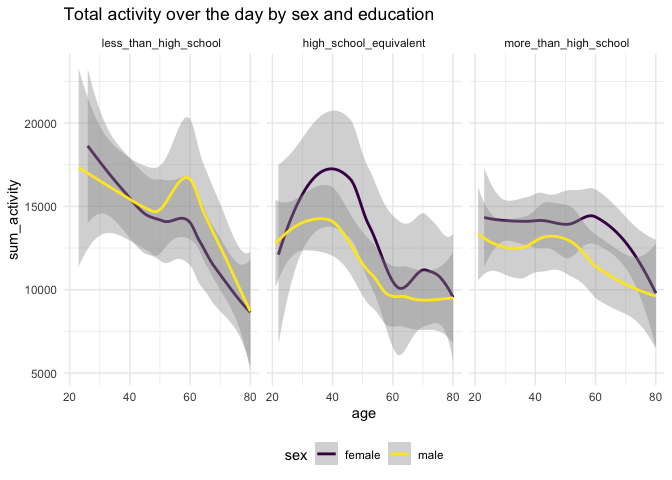
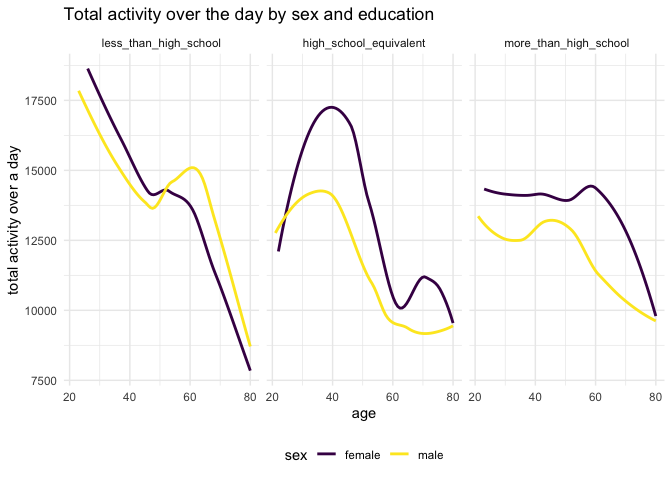
some modification

diff --git a/p8105_hw3_sp4170.md b/p8105_hw3_sp4170.md
@@ -28,7 +28,8 @@ brfss_smart2010 |>
     response == 'Excellent' | response == 'Very good' | response =='Good' | response == 'Fair' | response == 'Poor') |> 
   mutate(
     response = fct_relevel(response, c('Poor', 'Fair', 'Good', 'Very good', 'Excellent'))
-  )
+  ) |> 
+  rename(state = locationabbr, state_location = locationdesc)
 ```
 
 i named the cleaned dataset as ‘brfss_df’.
@@ -44,8 +45,8 @@ in 2010?
 brfss_2002_df =
 brfss_df |> 
   filter(year == 2002) |> 
-  group_by(locationabbr) |> 
-  summarise(n_locations = n_distinct(locationdesc)) |> 
+  group_by(state) |> 
+  summarise(n_locations = n_distinct(state_location)) |> 
   filter(n_locations >= 7)
 ```
 
@@ -56,8 +57,8 @@ brfss_df |>
 brfss_2010_df =
 brfss_df |> 
   filter(year == 2010) |> 
-  group_by(locationabbr) |> 
-  summarise(n_locations = n_distinct(locationdesc)) |> 
+  group_by(state) |> 
+  summarise(n_locations = n_distinct(state_location)) |> 
   filter(n_locations >= 7)
 ```
 
@@ -79,28 +80,29 @@ requirement:
 brfss_excellent_df =
 brfss_df |> 
   filter(response == 'Excellent') |> 
-  group_by(locationabbr) |> 
+  group_by(state, year) |> 
   mutate(
     mean_data_value = mean(data_value, na.rm = TRUE)
   ) |> 
-  select(year, locationabbr, mean_data_value) |> 
-  distinct()
+  select(year, state, mean_data_value) |> 
+  distinct(state, .keep_all = TRUE)
 
 brfss_excellent_df |> 
   ggplot(aes(x = year, y = mean_data_value)) +
-  geom_line(aes(group = locationabbr, color = locationabbr)) +
+  geom_line(aes(group = state, color = state)) +
   labs(
     title = "Average data value over time within states"
-  )
+  ) +
+  theme(legend.position = "right")
 ```
 
 ![](p8105_hw3_sp4170_files/figure-gfm/unnamed-chunk-5-1.png)<!-- -->
 
 - here, i first create a dataset `brfss_excellent_df` following the
   requirement. This new dataset only have 3 variables, which are year,
-  locationabbr, and mean_data_value and is limited to Excellent
-  responses. Then i do a spaghetti plot using geom_line() to show
-  average data value over time within states.
+  state, and mean_data_value and is limited to Excellent responses. Then
+  i do a spaghetti plot using geom_line() to show average data value
+  over time within states.
 
 ### Question 3
 
@@ -111,9 +113,9 @@ locations in NY State.
 ``` r
 brfss_df |> 
   filter(
-    locationabbr == 'NY',
+    state == 'NY',
     year == 2006 | year == 2010) |> 
-  group_by(locationdesc) |> 
+  group_by(state_location) |> 
   ggplot(aes(x = data_value, fill = response)) +
   geom_density(alpha = 0.3) +
   facet_grid(. ~ year)+
@@ -139,12 +141,16 @@ the ordering of tables and plots in mind).
 
 ``` r
 accel_df = 
-  read_csv("data/nhanes_accel.csv") |> 
+  read_csv("data/nhanes_accel.csv", na = '.') |> 
   janitor::clean_names() |> 
   pivot_longer(
     min1:min1440,
     names_to = 'time',
-    values_to = 'mims'
+    values_to = 'mims',
+    names_prefix = 'min'
+  ) |> 
+  mutate(
+    time = as.factor(time)
   )
 ```
 
@@ -158,14 +164,15 @@ accel_df =
 
 ``` r
 covar_df =
-  read_csv("data/nhanes_covar.csv", skip = 4) |> 
+  read_csv("data/nhanes_covar.csv", skip = 4, na = '.') |> 
   janitor::clean_names()
 ```
 
     ## Rows: 250 Columns: 5
     ## ── Column specification ────────────────────────────────────────────────────────
     ## Delimiter: ","
-    ## dbl (5): SEQN, sex, age, BMI, education
+    ## chr (2): BMI, education
+    ## dbl (3): SEQN, sex, age
     ## 
     ## ℹ Use `spec()` to retrieve the full column specification for this data.
     ## ℹ Specify the column types or set `show_col_types = FALSE` to quiet this message.
@@ -176,7 +183,7 @@ final_df =
   drop_na(sex, age, bmi, education) |> 
   filter(age >= 21) |> 
   mutate(
-    education = case_match(education, 1 ~ 'less_than_high_school', 2 ~ 'high_school_equivalent', 3 ~ 'more_than_high_school'),
+    education = ifelse(education == 1, 'less_than_high_school', ifelse(education == 2, 'high_school_equivalent', 'more_than_high_school')),
     sex = case_match(sex, 1 ~ 'male', 2 ~ 'female'),
     education = fct_relevel(education, c('less_than_high_school', 'high_school_equivalent', 'more_than_high_school'))
   )
@@ -193,32 +200,36 @@ final_df =
 
 ``` r
 final_df |> 
-  select(sex, education, age) |> 
+  select(seqn, sex, education, age) |> 
+  distinct(seqn, .keep_all = TRUE) |> 
   group_by(sex, education) |> 
   summarise(n_obs = n()) |>
-  knitr::kable()
+  pivot_wider(
+    names_from = 'sex',
+    values_from = 'n_obs'
+  )
 ```
 
     ## `summarise()` has grouped output by 'sex'. You can override using the `.groups`
     ## argument.
 
-| sex    | education              | n_obs |
-|:-------|:-----------------------|------:|
-| female | less_than_high_school  | 40320 |
-| female | high_school_equivalent | 33120 |
-| female | more_than_high_school  | 84960 |
-| male   | less_than_high_school  | 38880 |
-| male   | high_school_equivalent | 50400 |
-| male   | more_than_high_school  | 80640 |
+    ## # A tibble: 3 × 3
+    ##   education              female  male
+    ##   <fct>                   <int> <int>
+    ## 1 less_than_high_school      29    28
+    ## 2 high_school_equivalent     23    36
+    ## 3 more_than_high_school      59    56
 
 ``` r
 final_df |> 
-  select(sex, education, age) |> 
+  select(seqn, sex, education, age) |> 
+  distinct(seqn, .keep_all = TRUE) |> 
   ggplot(aes(x = age, color = sex))+
   geom_histogram(binwidth = 5, alpha = 0.3) +
   facet_grid(. ~ education) +
   labs(
-    title = 'Age distributions by sex and education category'
+    title = 'Age distributions by sex and education category',
+    y = 'Frequency'
   )
 ```
 
@@ -228,7 +239,7 @@ final_df |>
   - here, i group the dataset by sex and education category using
     `group_by()` and then use `summarise()` to count how many
     observations in each single group (name this variable as n_obs).
-    Then i use `knitr::kable()` to produce a reader-friendly table.
+    Then i use `pivot_wider()` to produce a reader-friendly table.
   - *comments*:
     - In both sex groups, most participants are educated more than high
       school, while more females get education more than high school
@@ -269,12 +280,13 @@ final_df |>
   group_by(seqn) |> 
   mutate(sum_activity = sum(mims)) |> 
   select(seqn, sex, age, education, sum_activity) |> 
-  distinct() |> 
+  distinct(seqn, .keep_all = TRUE) |> 
   ggplot(aes(x = age, y = sum_activity, color = sex)) +
-  geom_smooth() +
+  geom_smooth(se = FALSE) +
   facet_grid(. ~ education) +
   labs(
-    title = 'Total activity over the day by sex and education'
+    title = 'Total activity over the day by sex and education',
+    y = 'total activity over a day'
   )
 ```
 
@@ -285,14 +297,54 @@ final_df |>
 I include a smooth in my plot.
 
 - *comments*:
-  - for each education group, the sum_activity would decrease when ages
-    increase for both genders.
+  - for each education group, the sum_activity would approximately
+    decrease when ages increase for both genders. but for high school
+    equivalent group, sum_activity would first increased apparently
+    until age arrived around 40 yrs, then it will go down. For more than
+    high school group, sum_activity will fluctuate until age arrived
+    around 55 yrs and then it will go down.
   - for education group that is high school equivalent and more than
     high school, in most age, the sum_activity for females surpass
     males.
   - for education group that is less than high school, before around 40
     years old, females have sum_activity greater than males. after
     around 40 years old, the situation reverses.
-  - based on the plots, the group of less than high school education and
-    the group of high school equivalent education have wider variations
-    than the group of more than high school education.
+
+### Question 3
+
+Accelerometer data allows the inspection activity over the course of the
+day. Make a three-panel plot that shows the 24-hour activity time
+courses for each education level and use color to indicate sex. Describe
+in words any patterns or conclusions you can make based on this graph;
+including smooth trends may help identify differences.
+
+``` r
+final_df |>
+  select(sex, education, time, mims) |> 
+  group_by(time, sex, education) |> 
+  mutate(
+    sum_activity_sex_edu = sum(mims),
+    time = as.numeric(time),
+    mean_activity_sex_edu = mean(mims)
+  ) |> 
+  ggplot(aes(x = time, y = mean_activity_sex_edu, color = sex)) +
+
+  geom_smooth() +
+  scale_x_continuous(
+    breaks = c(0, 500, 1000, 1500),
+    ) +
+  facet_grid(. ~ education)
+```
+
+    ## `geom_smooth()` using method = 'gam' and formula = 'y ~ s(x, bs = "cs")'
+
+![](p8105_hw3_sp4170_files/figure-gfm/unnamed-chunk-10-1.png)<!-- -->
+
+- *comment*:
+  - for both sex, the mean activity will decrease from the start of a
+    day until time goes to around 600 mins of a day. Then the mean
+    activity will increase until time goes to around 1000 mins of a day.
+    Then the mean activity will decrease till the end of day.
+  - for each education level, the lowest mean activity of a day is
+    similar, while for the highest mean activity of a day, group less
+    than high school will have more mean activity than other two groups.
